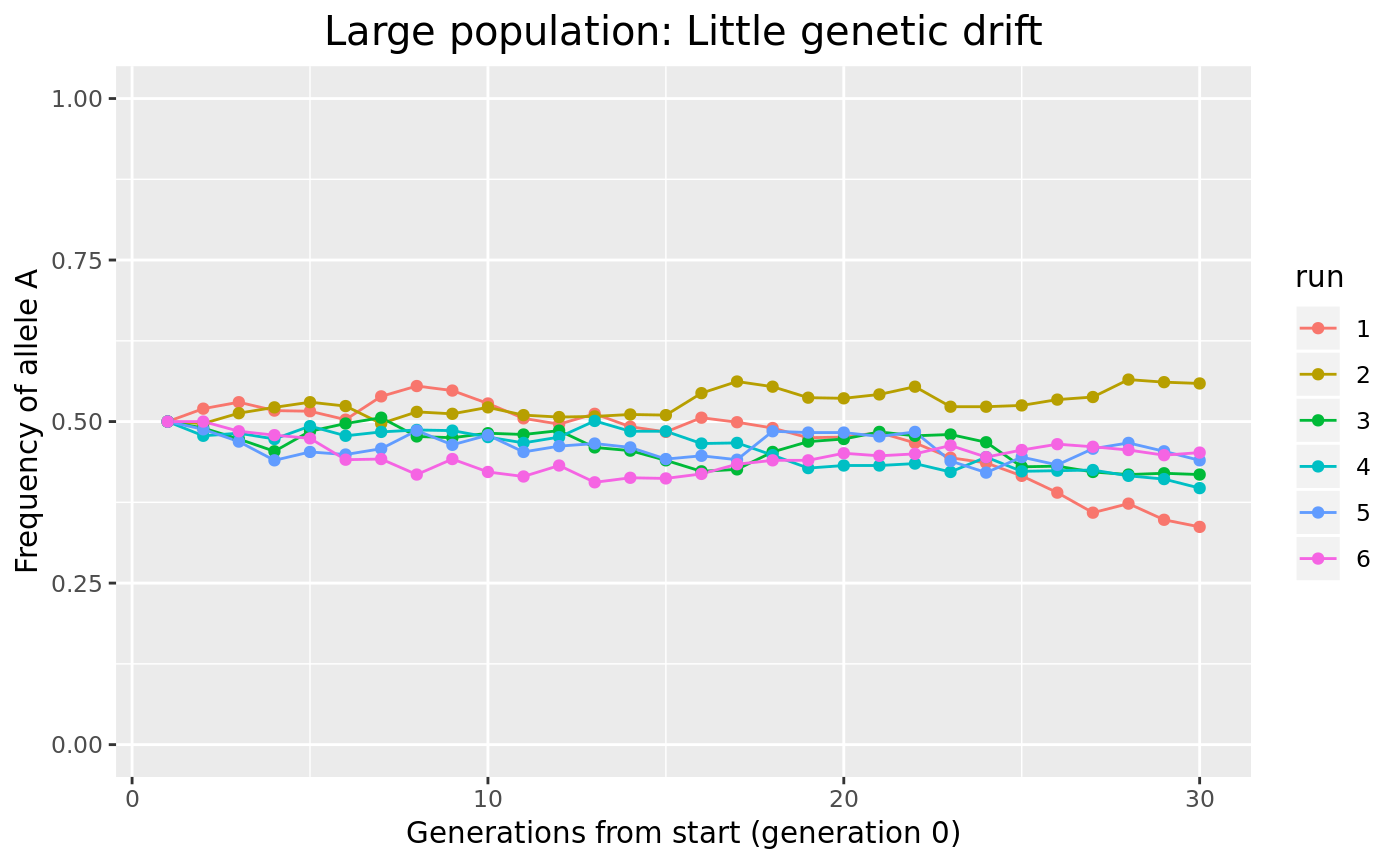
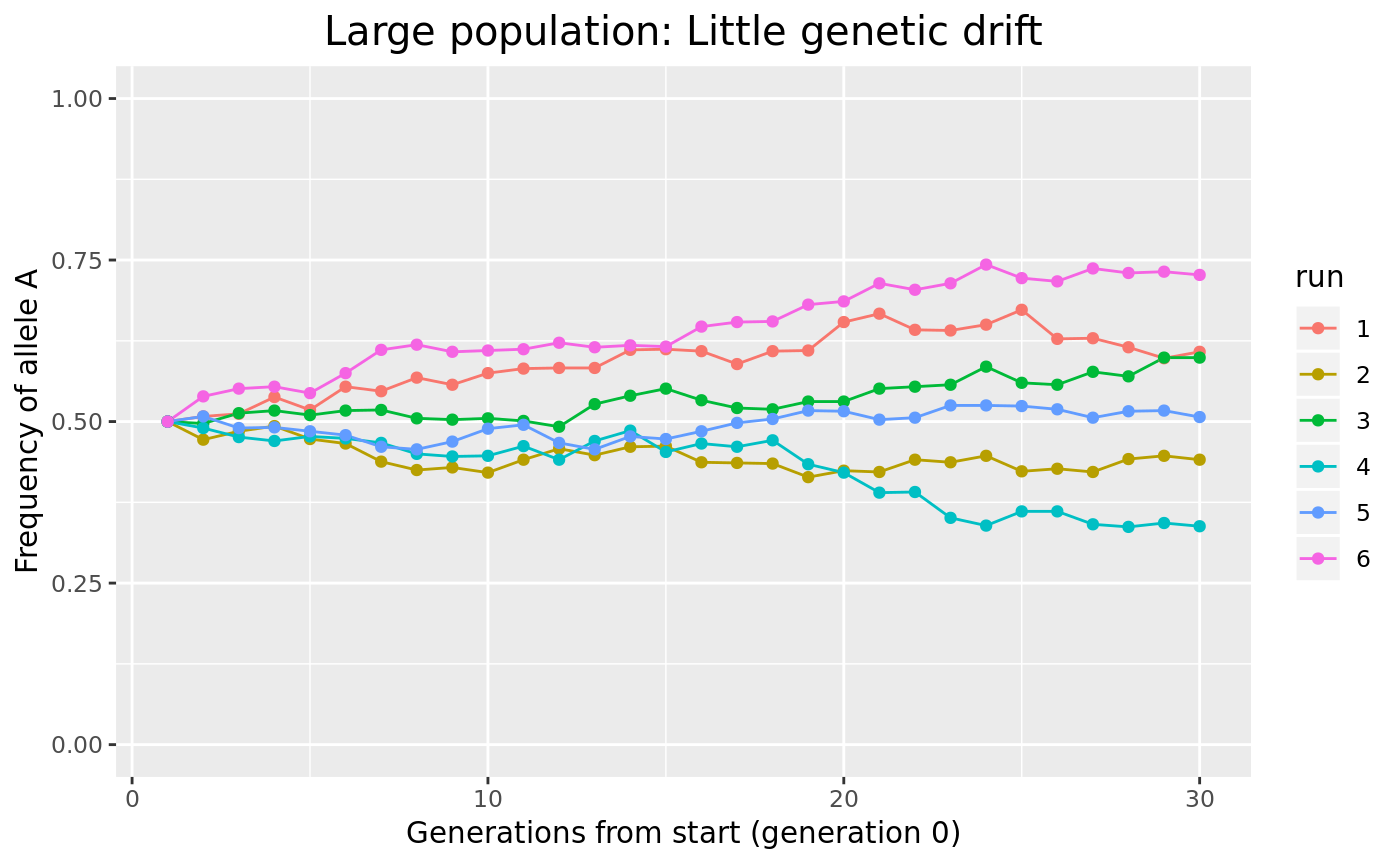
[skip ci] build pkgdown at 2019-05-01 01:05:10

Changed region(s): [[0.1229, 0.3121, 0.86, 0.6243], [0.6757, 0.5931, 0.7371, 0.6243]]

diff --git a/articles/pgmcs.html b/articles/pgmcs.html
@@ -86,7 +86,7 @@
       <h1>Introduction to minir</h1>
                         <h4 class="author">Zhuoer Dong</h4>
             
-            <h4 class="date">2019-04-27</h4>
+            <h4 class="date">2019-05-01</h4>
       
       <small class="dont-index">Source: <a href="https://github.com/dongzhuoer/pgmcs/blob/master/vignettes/pgmcs.Rmd"><code>vignettes/pgmcs.Rmd</code></a></small>
       <div class="hidden name"><code>pgmcs.Rmd</code></div>
@@ -104,7 +104,15 @@
 <a href="#figure-20-8-at-p671-" class="anchor"></a>Figure 20.8 at P671.</h2>
 <p>Initial population are all heterozygotes.</p>
 <div class="sourceCode" id="cb2"><pre class="sourceCode r"><code class="sourceCode r"><a class="sourceLine" id="cb2-1" title="1"><span class="kw"><a href="https://www.rdocumentation.org/packages/base/topics/Random">set.seed</a></span>(<span class="dv">13</span>);</a>
-<a class="sourceLine" id="cb2-2" title="2"><span class="kw"><a href="../reference/demo_population_simulation.html">demo_population_simulation</a></span>(<span class="dv">6</span>, <span class="dv">30</span>, <span class="kw"><a href="https://www.rdocumentation.org/packages/base/topics/c">c</a></span>(<span class="dv">0</span>, <span class="dv">10</span>, <span class="dv">0</span>), <span class="kw"><a href="https://www.rdocumentation.org/packages/base/topics/c">c</a></span>(<span class="dv">1</span>, <span class="dv">1</span>, <span class="dv">1</span>), <span class="st">"Small population: Lots of genetic drift"</span>);</a></code></pre></div>
+<a class="sourceLine" id="cb2-2" title="2"><span class="kw"><a href="../reference/demo_population_simulation.html">demo_population_simulation</a></span>(<span class="dv">6</span>, <span class="dv">30</span>, <span class="kw"><a href="https://www.rdocumentation.org/packages/base/topics/c">c</a></span>(<span class="dv">0</span>, <span class="dv">10</span>, <span class="dv">0</span>), <span class="kw"><a href="https://www.rdocumentation.org/packages/base/topics/c">c</a></span>(<span class="dv">1</span>, <span class="dv">1</span>, <span class="dv">1</span>), <span class="st">"Small population: Lots of genetic drift"</span>);</a>
+<a class="sourceLine" id="cb2-3" title="3"><span class="co">#&gt; Registered S3 methods overwritten by 'ggplot2':</span></a>
+<a class="sourceLine" id="cb2-4" title="4"><span class="co">#&gt;   method         from </span></a>
+<a class="sourceLine" id="cb2-5" title="5"><span class="co">#&gt;   [.quosures     rlang</span></a>
+<a class="sourceLine" id="cb2-6" title="6"><span class="co">#&gt;   c.quosures     rlang</span></a>
+<a class="sourceLine" id="cb2-7" title="7"><span class="co">#&gt;   print.quosures rlang</span></a>
+<a class="sourceLine" id="cb2-8" title="8"><span class="co">#&gt; Registered S3 method overwritten by 'dplyr':</span></a>
+<a class="sourceLine" id="cb2-9" title="9"><span class="co">#&gt;   method               from  </span></a>
+<a class="sourceLine" id="cb2-10" title="10"><span class="co">#&gt;   as.data.frame.tbl_df tibble</span></a></code></pre></div>
 <p><img src="pgmcs_files/figure-html/unnamed-chunk-2-1.png" width="700"></p>
 <div class="sourceCode" id="cb3"><pre class="sourceCode r"><code class="sourceCode r"><a class="sourceLine" id="cb3-1" title="1"><span class="kw"><a href="https://www.rdocumentation.org/packages/base/topics/Random">set.seed</a></span>(<span class="dv">0</span>);</a>
 <a class="sourceLine" id="cb3-2" title="2"><span class="kw"><a href="../reference/demo_population_simulation.html">demo_population_simulation</a></span>(<span class="dv">6</span>, <span class="dv">30</span>, <span class="kw"><a href="https://www.rdocumentation.org/packages/base/topics/c">c</a></span>(<span class="dv">0</span>, <span class="dv">500</span>, <span class="dv">0</span>), <span class="kw"><a href="https://www.rdocumentation.org/packages/base/topics/c">c</a></span>(<span class="dv">1</span>, <span class="dv">1</span>, <span class="dv">1</span>), <span class="st">"Large population: Little genetic drift"</span>);</a></code></pre></div>

diff --git a/reference/population_simulation.html b/reference/population_simulation.html
@@ -153,8 +153,8 @@
     
 
     <h2 class="hasAnchor" id="examples"><a class="anchor" href="#examples"></a>Examples</h2>
-    <pre class="examples"><div class='input'><span class='fu'>population_simulation</span>(<span class='fl'>30</span>, <span class='fu'><a href='https://www.rdocumentation.org/packages/base/topics/c'>c</a></span>(<span class='fl'>0</span>, <span class='fl'>10</span>, <span class='fl'>0</span>))</div><div class='output co'>#&gt;  [1] 0.50 0.50 0.55 0.45 0.45 0.50 0.45 0.35 0.40 0.30 0.25 0.20 0.25 0.30 0.30
-#&gt; [16] 0.30 0.20 0.15 0.15 0.15 0.10 0.15 0.05 0.05 0.15 0.15 0.00 0.00 0.00 0.00</div><div class='input'>
+    <pre class="examples"><div class='input'><span class='fu'>population_simulation</span>(<span class='fl'>30</span>, <span class='fu'><a href='https://www.rdocumentation.org/packages/base/topics/c'>c</a></span>(<span class='fl'>0</span>, <span class='fl'>10</span>, <span class='fl'>0</span>))</div><div class='output co'>#&gt;  [1] 0.50 0.45 0.30 0.40 0.45 0.40 0.35 0.45 0.45 0.30 0.30 0.15 0.15 0.10 0.15
+#&gt; [16] 0.15 0.10 0.10 0.10 0.10 0.10 0.05 0.00 0.00 0.00 0.00 0.00 0.00 0.00 0.00</div><div class='input'>
 </div></pre>
   </div>
   <div class="col-md-3 hidden-xs hidden-sm" id="sidebar">

diff --git a/articles/beginner.html b/articles/beginner.html
@@ -86,7 +86,7 @@
       <h1>For Beginners</h1>
                         <h4 class="author">Zhuoer Dong</h4>
             
-            <h4 class="date">2019-04-27</h4>
+            <h4 class="date">2019-05-01</h4>
       
       <small class="dont-index">Source: <a href="https://github.com/dongzhuoer/pgmcs/blob/master/vignettes/beginner.Rmd"><code>vignettes/beginner.Rmd</code></a></small>
       <div class="hidden name"><code>beginner.Rmd</code></div>
